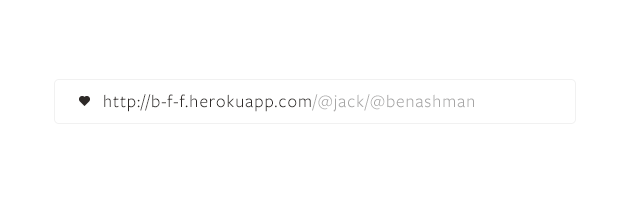
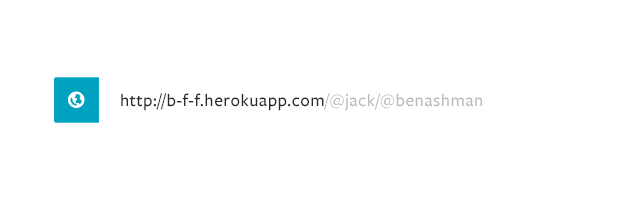
Home page changes

Changed region(s): [[0.0603, 0.36, 0.7841, 0.63]]

diff --git a/public/css/main.css b/public/css/main.css
@@ -253,7 +253,7 @@ html, body {
   content: "♥";
   left: -5px;
   font-style: normal;
-  color: #5cbd98;
+  color: #00a2bf;
 }
 /* line 30, ../sass/parts/_header.scss */
 .site-header .header-inner .logo h1:hover:after {
@@ -387,7 +387,7 @@ main {
   display: inline-block;
   padding: 10px 30px;
   color: white;
-  background: #00acee;
+  background: #00a2bf;
   border-bottom: none;
   border-radius: 4px;
   margin-bottom: 60px;
@@ -433,7 +433,7 @@ main {
   border: none;
   outline: 0;
   background: transparent;
-  color: #00acee;
+  color: #00a2bf;
   padding: 0 0 10px 0;
   border-bottom: 1px solid #f4f4f4;
 }
@@ -454,7 +454,7 @@ main {
   font-size: 1.2rem;
   text-align: center;
   color: white;
-  background: #00acee;
+  background: #00a2bf;
   padding: 10px 0;
   border-bottom: none;
   border-bottom-left-radius: 2px;
@@ -462,7 +462,7 @@ main {
 }
 /* line 188, ../sass/main.scss */
 .twitter-card .profile-link:hover {
-  background: #08bbff;
+  background: #00b8d9;
 }
 
 /* line 194, ../sass/main.scss */

diff --git a/public/sass/parts/_header.scss b/public/sass/parts/_header.scss
@@ -23,7 +23,7 @@
                     content: "♥";
                     left: -5px;
                     font-style: normal;
-                    color: $highlight;
+                    color: $twitter-blue;
                 }
 
                 &:hover {

diff --git a/public/sass/util/_color.scss b/public/sass/util/_color.scss
@@ -4,7 +4,7 @@ $primary: #4D4D4D;
 $highlight: #5CBD98;
 $background: #223549;
 
-$twitter-blue: #00acee;
+$twitter-blue: #00a2bf;
 $grey: #F4F4F4;
 
 $green: #4fbf8e;
